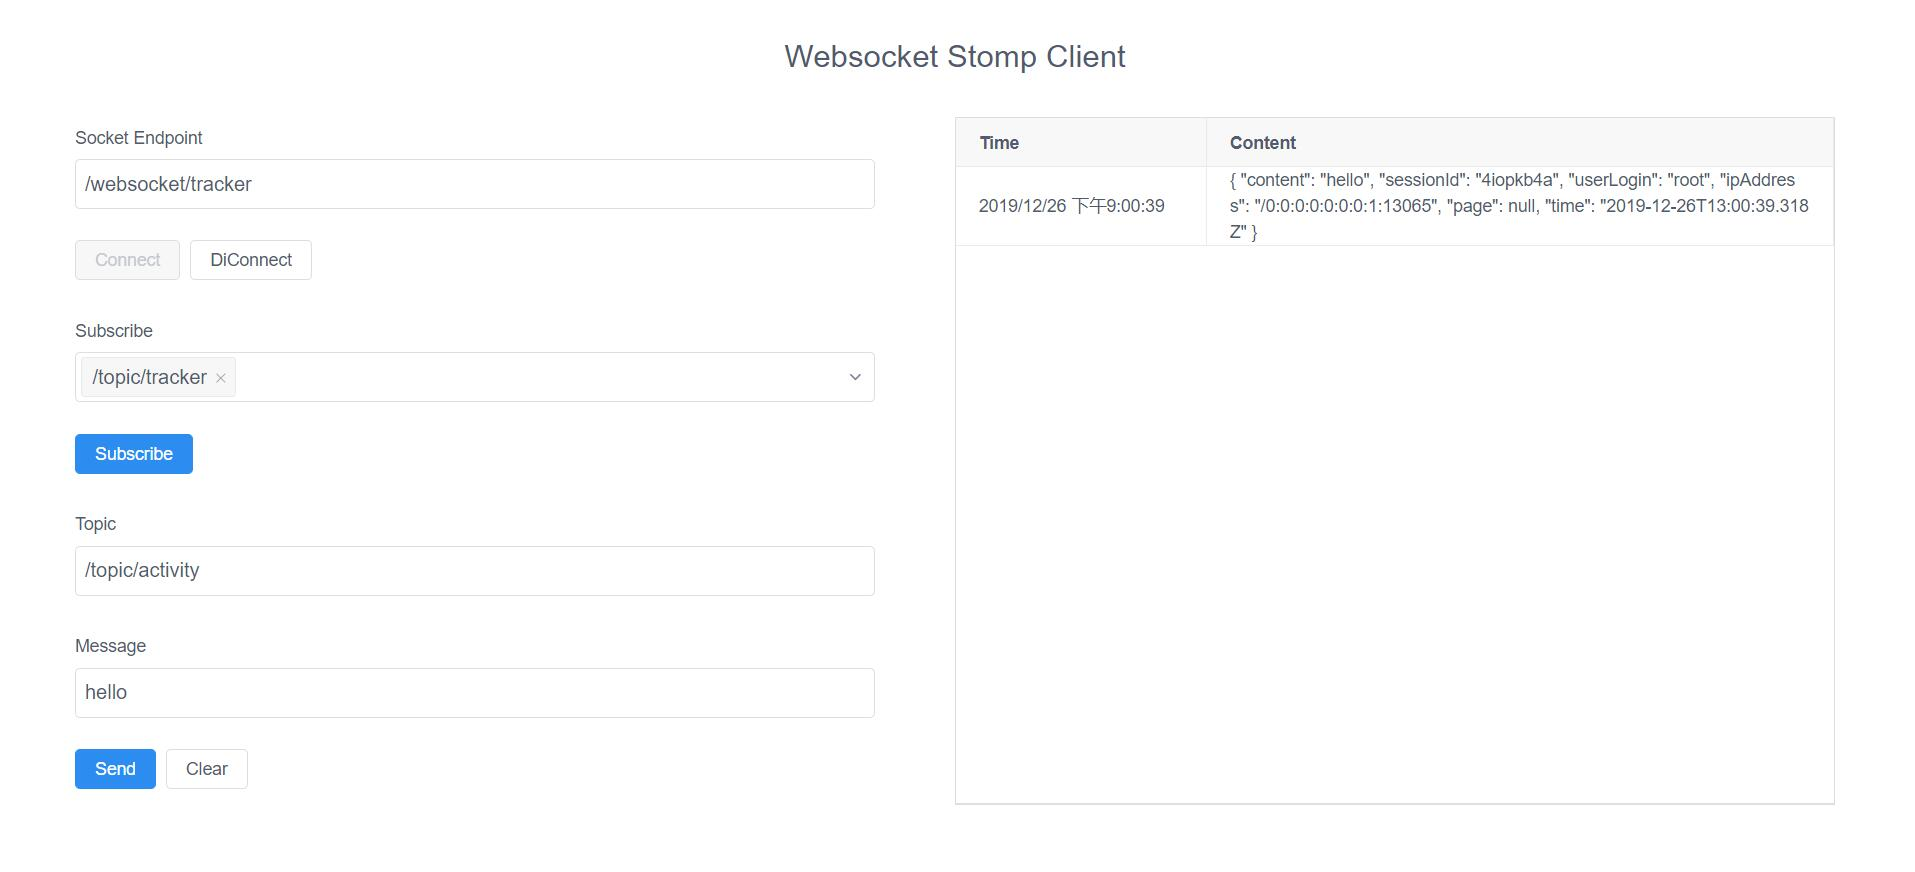
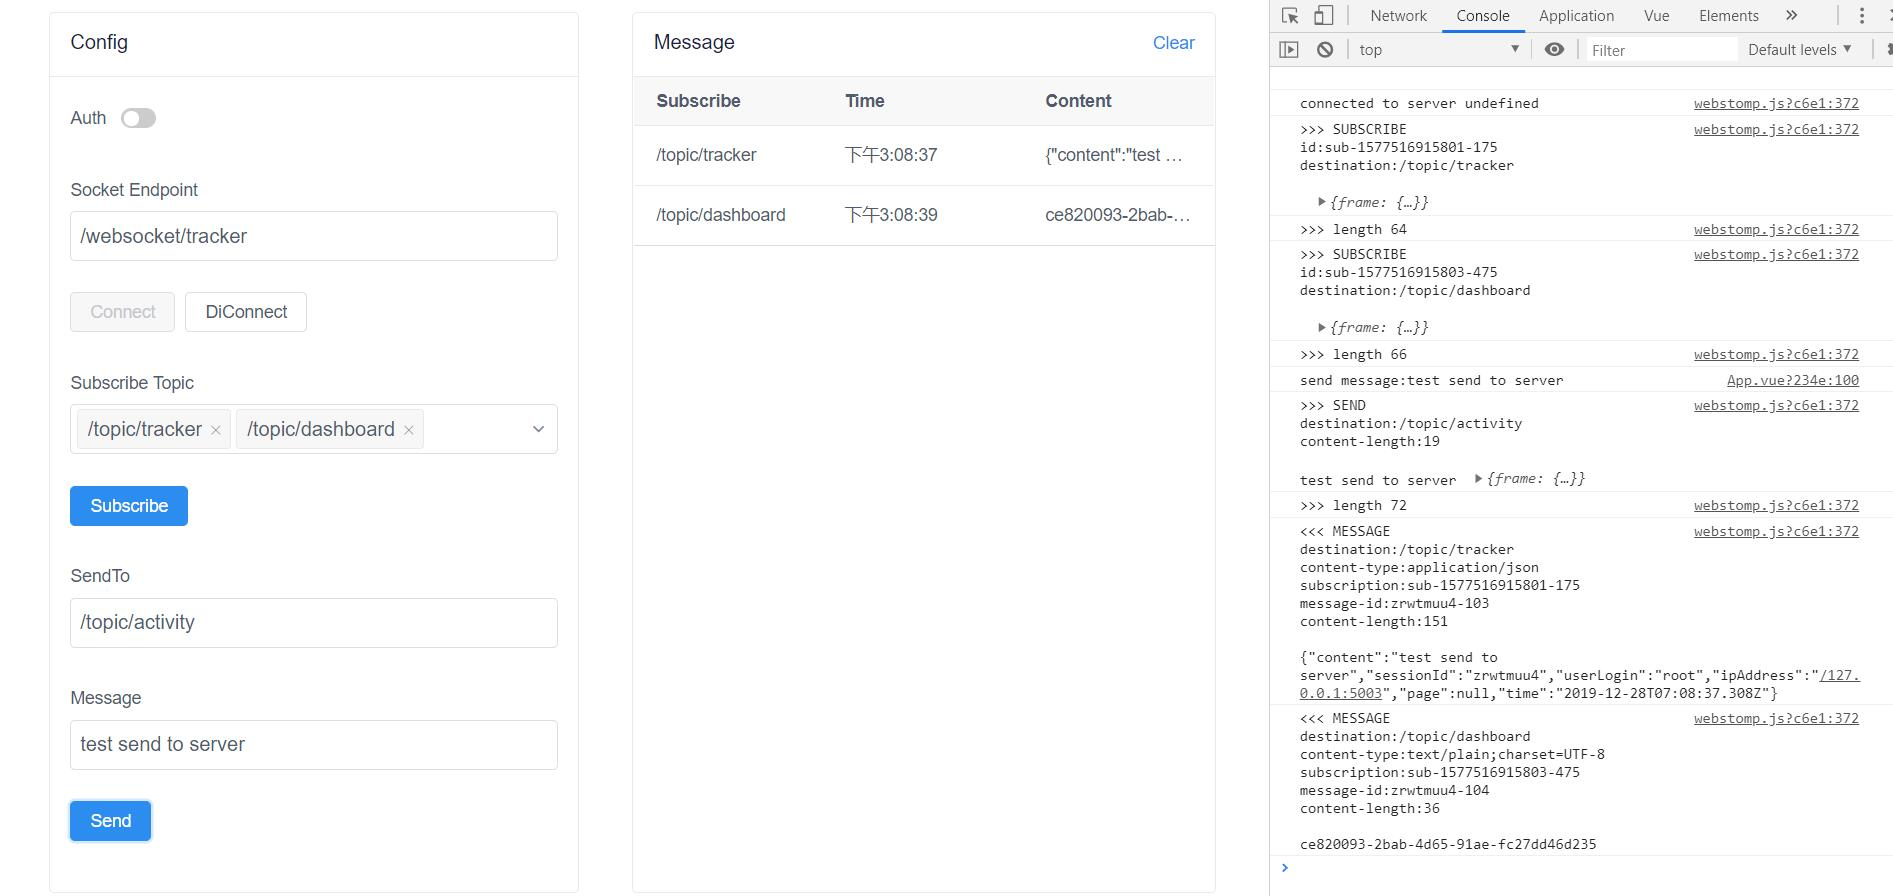
update

diff --git a/vue-websocket-client/src/App.vue b/vue-websocket-client/src/App.vue
@@ -1,11 +1,15 @@
 <template>
   <div id="app">
-    <Row class="text-center">
-      Websocket Stomp Client
-    </Row>
-    <Row>
-      <Col offset="1" span="10">
+    <Col offset="1" span="10">
+      <Card id="config">
+        <p slot="title">
+          Config
+        </p>
         <Form>
+          <FormItem label="Auth">
+            <i-switch size="small" v-model="form.enableAuth"/>
+            <Input size="large" v-model="form.token" v-show="form.enableAuth" placeholder="Url carry authentication information, including parameter name: access_token=*"/>
+          </FormItem>
           <FormItem label="Socket Endpoint">
             <Input size="large" v-model="form.endpoint" placeholder="Socket Endpoint..."/>
           </FormItem>
@@ -14,7 +18,7 @@
             <Button style="margin-left: 8px" @click="disconnect" :disabled="!connected">DiConnect</Button>
           </FormItem>
 
-          <FormItem label="Subscribe">
+          <FormItem label="Subscribe Topic">
             <Select size="large" v-model="form.subscribes" filterable multiple allow-create @on-create="addSubscribe">
               <Option v-for="subscribe in form.subscribes" :value="subscribe" :key="subscribe">{{ subscribe }}</Option>
             </Select>
@@ -23,22 +27,31 @@
             <Button type="primary" @click="subscribe" :disabled="!connected">Subscribe</Button>
           </FormItem>
 
-          <FormItem label="Mapping">
-            <Input size="large" v-model="form.mapping" placeholder="Mapping..."/>
+          <FormItem label="SendTo">
+            <Input size="large" v-model="form.sendTo" placeholder="Mapping..."/>
           </FormItem>
           <FormItem label="Message">
-            <Input size="large" v-model="form.message" placeholder="Message..."/>
+            <Input size="large" v-model="form.content" placeholder="Message..."/>
           </FormItem>
           <FormItem>
             <Button type="primary" @click="send" :disabled="!connected">Send</Button>
-            <Button style="margin-left: 8px" @click="table.messages = []">Clear</Button>
           </FormItem>
         </Form>
-      </Col>
-      <Col offset="1" span="11">
-        <Table :columns="table.headers" :data="table.messages" resizable border height="550"></Table>
-      </Col>
-    </Row>
+      </Card>
+    </Col>
+
+    <Col id="message" offset="1" span="11">
+      <Card>
+        <p slot="title">
+          Message
+        </p>
+        <a href="#" slot="extra" @click.prevent="table.messages = []">
+          <Icon type="ios-loop-strong"></Icon>
+          Clear
+        </a>
+        <Table :max-height="height - 52" :columns="table.headers" :data="table.messages"></Table>
+      </Card>
+    </Col>
   </div>
 </template>
 
@@ -50,36 +63,49 @@
   name: 'app',
   data() {
     return {
-      baseUrl: 'http://localhost:8090',
-      table: {
-        headers: [
-          {title: 'Time', key: 'time', width: 200},
-          {title: 'Content', key: 'content'},
-        ],
-        messages: []
-      },
+      height: 0,
       form: {
+        enableAuth: false,
+        token: 'access_token=',
         subscribes: ['/topic/tracker', '/topic/dashboard'],
         endpoint: '/websocket/tracker',
-        mapping: '/topic/activity',
-        message: ''
+        sendTo: '/topic/activity',
+        content: ''
+      },
+      table: {
+        headers: [
+          {title: 'Subscribe', key: 'subscribe', width: 150},
+          {title: 'Time', key: 'time', width: 160},
+          {title: 'Content', key: 'content', tooltip: true},
+        ],
+        messages: []
       },
       connected: false,
       client: {}
     }
+  },
+  mounted() {
+    this.height = document.getElementById("config").offsetHeight;
+    document.getElementById('message').style['height'] = this.height + 'px';
+    document.getElementById('message').style['max-height'] = this.height + 'px';
+
+    document.getElementsByTagName('table')[0].style['height'] = this.height + 'px';
+    document.getElementsByTagName('table')[0].style['max-height'] = this.height + 'px';
   },
   methods: {
     addSubscribe(val) {
       this.form.subscribes.push(val);
     },
     send() {
-      console.log("send message:" + this.form.message);
+      console.log("send message:" + this.form.content);
       if (this.client && this.client.connected) {
-        this.client.send(this.form.mapping, this.form.message, {});
+        this.client.send(this.form.sendTo, this.form.content, {});
       }
     },
     connect() {
-      this.client = Stomp.over(new SockJS(this.baseUrl + this.form.endpoint));
+      let endpoint = this.form.enableAuth ? this.form.endpoint + '?' + this.form.token :  this.form.endpoint;
+
+      this.client = Stomp.over(new SockJS(endpoint));
       this.client.connect({}, frame => {
           this.connected = true;
         },
@@ -98,17 +124,10 @@
     subscribe() {
       this.form.subscribes.forEach(e => {
         this.client.subscribe(e, tick => {
-
-          let content;
-          try {
-            content = JSON.parse(tick.body);
-          } catch (e) {
-            content = tick.body;
-          }
-
           this.table.messages.push({
-            time: new Date().toLocaleString(),
-            content: content
+            subscribe: e,
+            time: new Date().toLocaleTimeString(),
+            content: tick.body
           });
         });
       })
@@ -117,16 +136,21 @@
 }
 </script>
 
-<style>
+<style scoped>
 #app {
   font-size: 25px;
   font-family: 'Avenir', Helvetica, Arial, sans-serif;
   -webkit-font-smoothing: antialiased;
   -moz-osx-font-smoothing: grayscale;
+  margin-top: 10px;
+  margin-bottom: 10px;
 }
 
-.text-center {
-  text-align: center;
-  margin: 40px;
+#app #message /deep/ .ivu-card-body {
+  padding: 0;
+}
+
+#app #message /deep/ .ivu-card.ivu-card-bordered {
+  height: 100%;
 }
 </style>

diff --git a/vue-websocket-client/vue.config.js b/vue-websocket-client/vue.config.js
@@ -1,0 +1,15 @@
+module.exports = {
+    devServer: {
+        // open: true,
+        overlay: {
+            warnings: false,
+            errors: true
+        },
+        proxy: {
+            '/websocket': {
+                target: 'http://localhost:8080',
+                changeOrigin: true
+            }
+        }
+    }
+}

diff --git a/security-websocket-stomp/src/main/java/me/talei/examples/security/websocket/stomp/config/WebsocketConfiguration.java b/security-websocket-stomp/src/main/java/me/talei/examples/security/websocket/stomp/config/WebsocketConfiguration.java
@@ -28,8 +28,7 @@ public class WebsocketConfiguration implements WebSocketMessageBrokerConfigurer 
 
     @Override
     public void configureMessageBroker(MessageBrokerRegistry config) {
-        config.enableSimpleBroker("/topic");
-        config.enableSimpleBroker("/topic/dashboard");
+        config.enableSimpleBroker("/topic", "/topic/dashboard");
     }
 
     @Override

diff --git a/security-websocket-stomp/src/main/java/me/talei/examples/security/websocket/stomp/websocket/DashboardService.java b/security-websocket-stomp/src/main/java/me/talei/examples/security/websocket/stomp/websocket/DashboardService.java
@@ -4,7 +4,6 @@ import org.springframework.messaging.simp.SimpMessageSendingOperations;
 import org.springframework.stereotype.Controller;
 
 import javax.annotation.PostConstruct;
-import javax.websocket.server.ServerEndpoint;
 import java.util.Random;
 import java.util.UUID;
 

diff --git a/README.md b/README.md
@@ -6,6 +6,9 @@
 
 2. run vue client
 
+username: root
+password: admin
+
 `cd vue-websocket-client && yarn run serve`
 
 ![](./pic/demo.jpg)
